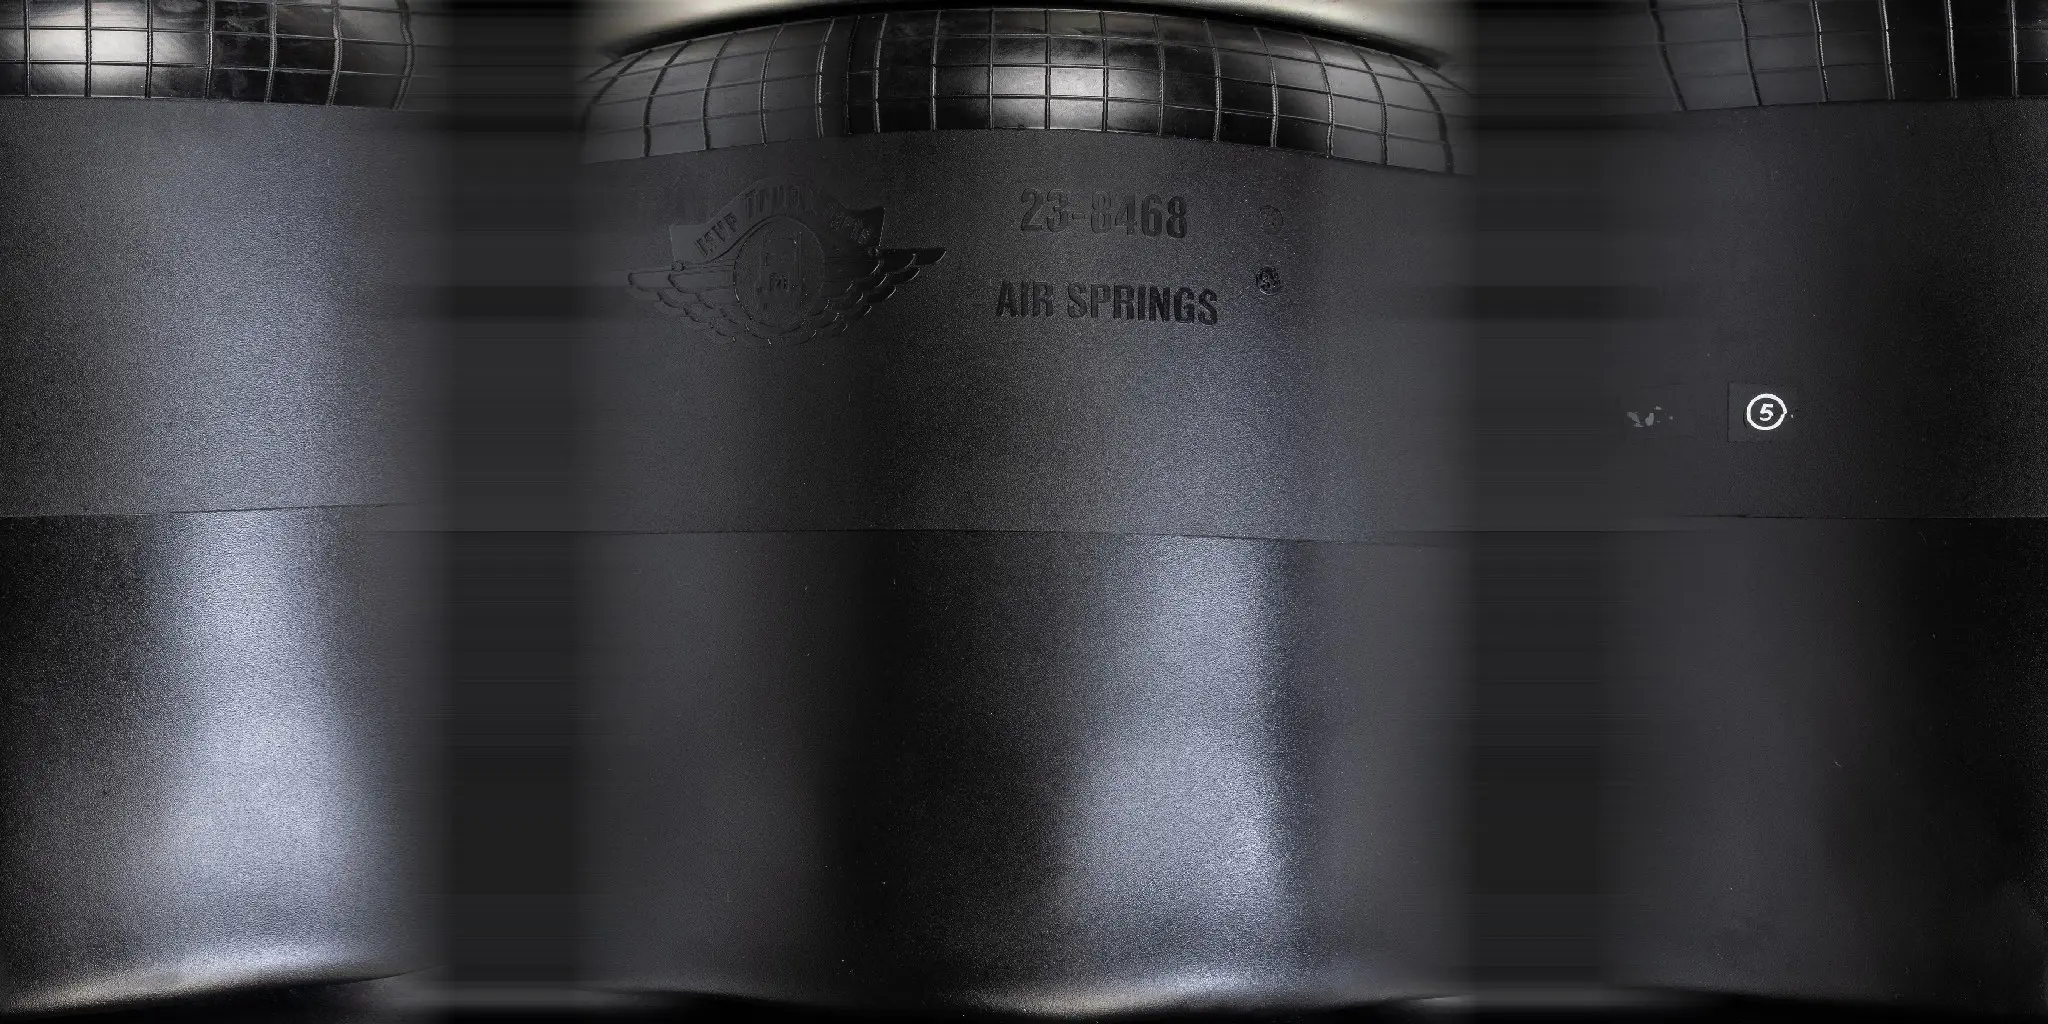
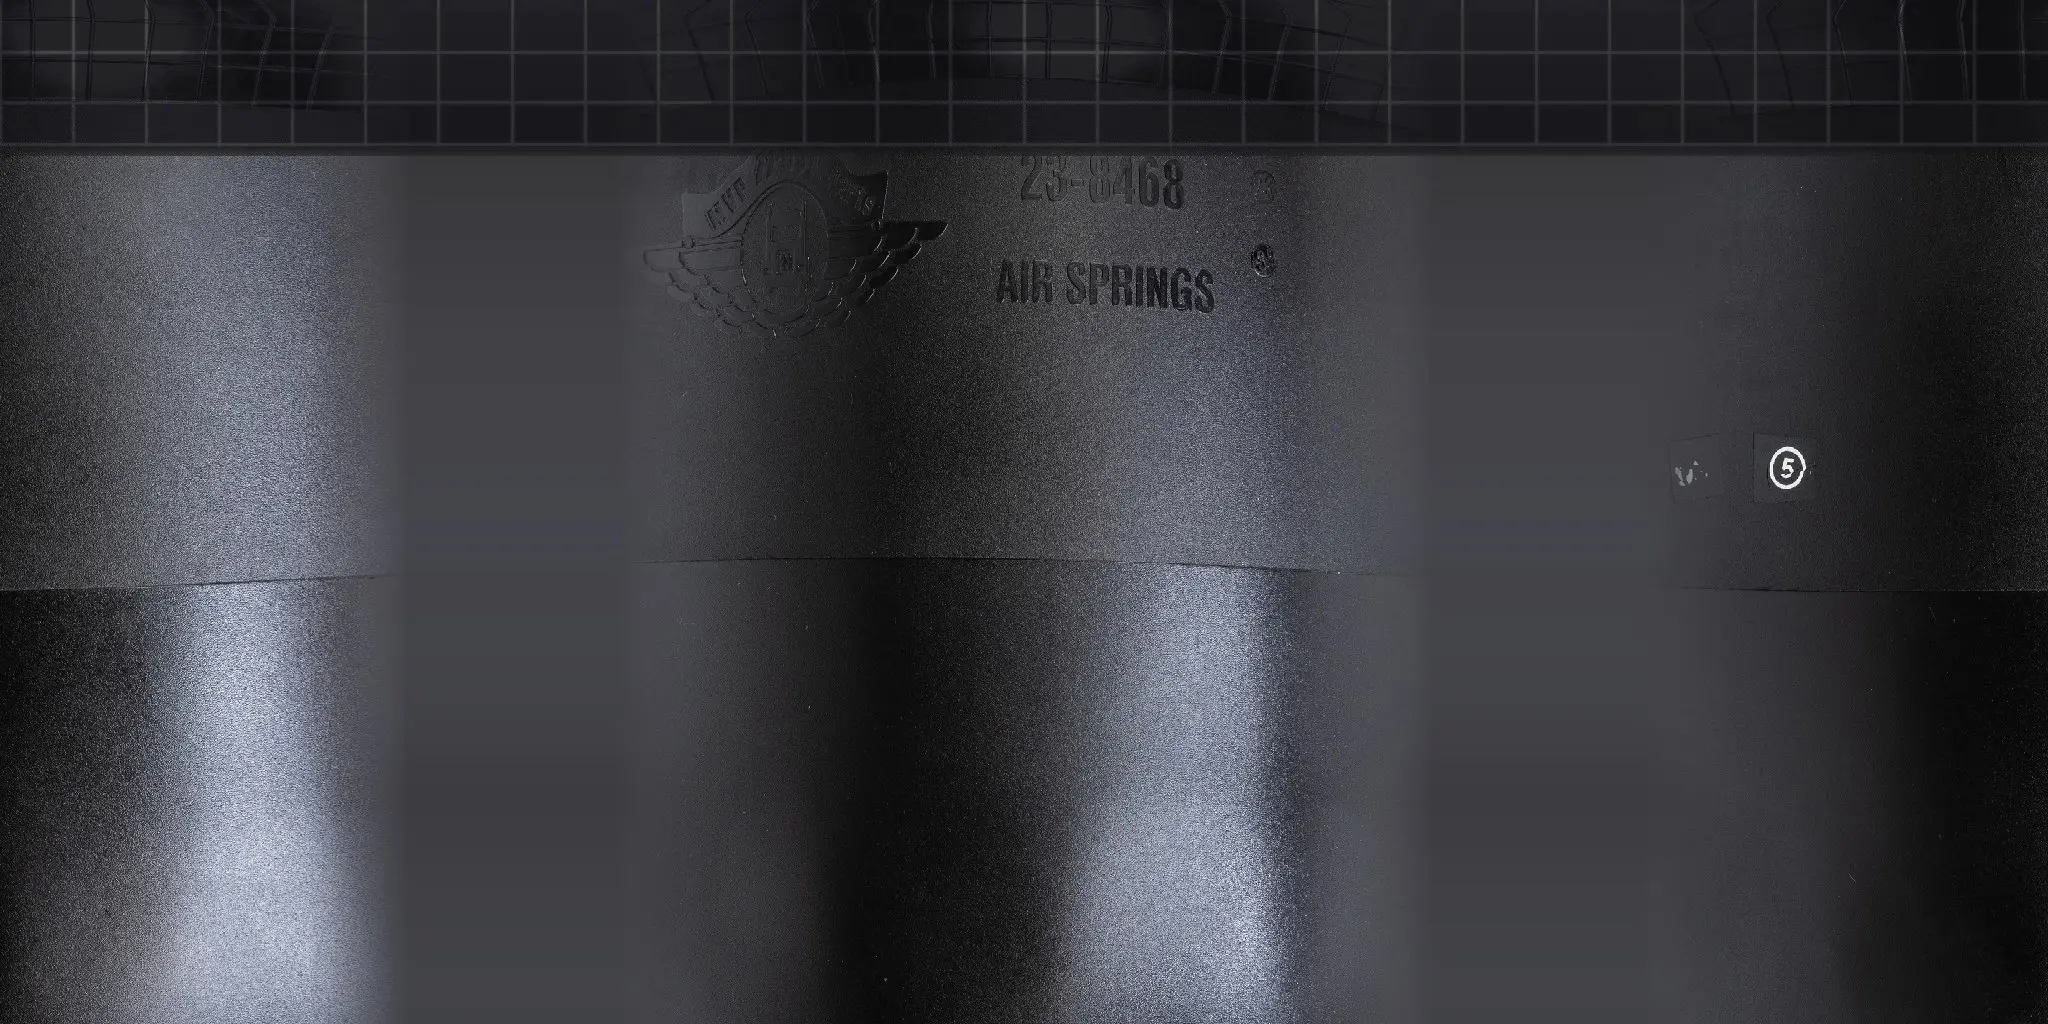
3D 23-8468: fix skewed shoulder grid
The back photo was aligned the wrong way, so the grid on the shoulder
landed at different heights front and back, and the guessed profile bent
its lines. The profile is now measured row by row from the side photo,
the back photo is aligned to the front by the grid edge and tone line,
only the undistorted middle of each photo is used, and the shoulder grid
is drawn straight. Logo, 23-8468 and AIR SPRINGS still come from the photo.

Claude-Session: https://claude.ai/code/session_01J7xySg1UCvVabx4Bmd5aU2

diff --git a/js/models3d.js b/js/models3d.js
@@ -11,14 +11,17 @@ const BLUE = 0x2f7fd0;
 export const MODELS = {
   "23-8468": {
     part: "23-8468",
-    plate: { r: 0.91, faceR: 0.88, rim: [[0.87, 0.005], [0.91, -0.01], [0.92, -0.06], [0.86, -0.1]] },
+    // Profile measured row by row from the side photo (body radius = 1).
+    plate: { r: 0.925, faceR: 0.88, rim: [[0.87, 0.0], [0.92, -0.03], [0.925, -0.19], [0.89, -0.255]] },
     rubber: [
-      [0.86, -0.09], [0.9, -0.16], [0.95, -0.3], [0.99, -0.45], [1.0, -0.6],
-      [1.0, -2.6], [0.995, -2.7], [0.97, -2.76],
+      [0.89, -0.253], [0.89, -0.295], [0.921, -0.337], [0.948, -0.379], [0.968, -0.421], [0.985, -0.463],
+      [0.997, -0.506], [1.003, -0.548], [1.011, -0.59], [1.006, -0.632], [1.003, -0.744], [1.0, -0.913],
+      [0.997, -1.081], [0.994, -1.25], [0.992, -1.419], [0.99, -1.587], [0.989, -1.756], [0.991, -1.924],
+      [0.994, -2.093], [0.994, -2.261], [0.997, -2.43], [1.004, -2.486],
     ],
-    piston: [[0.97, -2.74], [1.02, -2.8], [1.02, -2.86], [0.97, -2.9], [0.95, -2.92]],
+    piston: [[1.0, -2.47], [1.02, -2.55], [1.02, -2.8], [0.96, -2.87], [0.93, -2.9]],
     pistonMaterial: "plastic",
-    bottom: { y: -2.92, r: 0.95 },
+    bottom: { y: -2.9, r: 0.93 },
     // Positions are fractions of the plate radius, read off the top photo.
     topFittings: [
       { x: 0.17, z: -0.62, r: 0.075, h: 0.14, color: BLUE }, // 1/4" NPT air inlet
